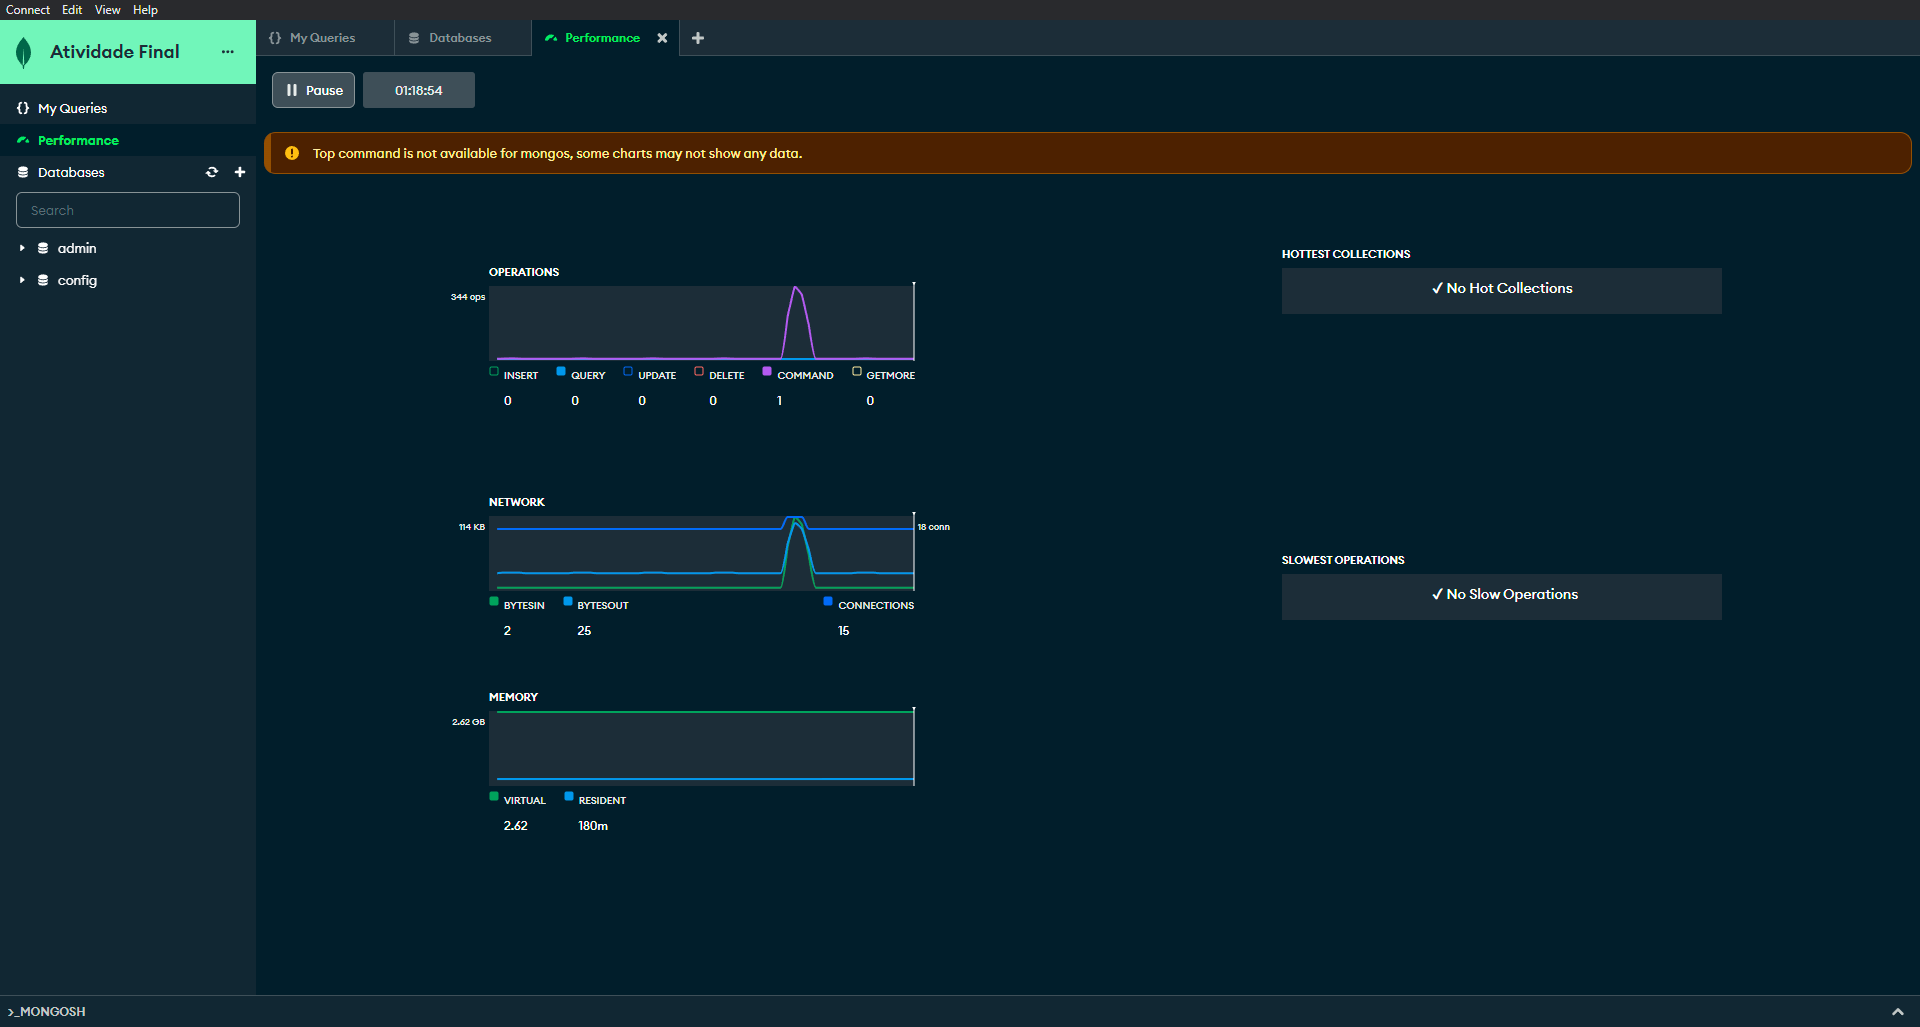
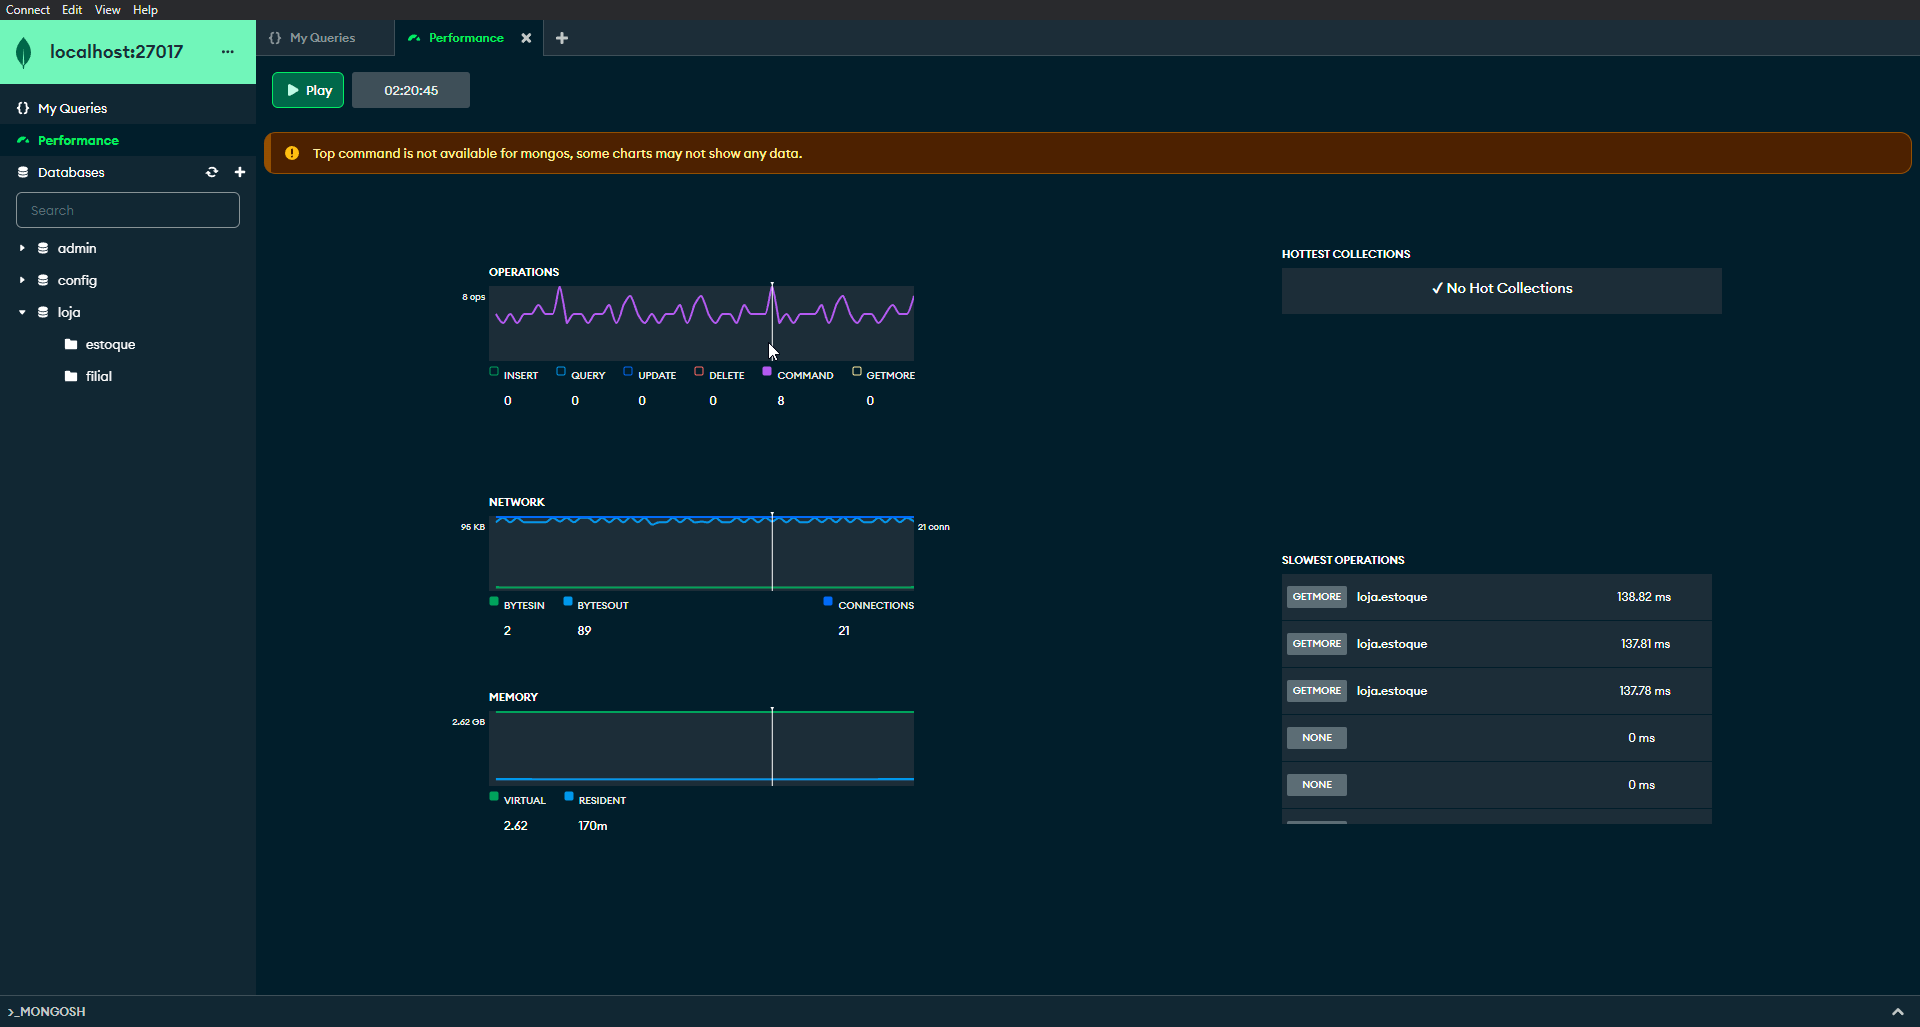
README.md v1.0

diff --git a/README.md b/README.md
@@ -428,6 +428,16 @@ EOF
 
 Aguardamos 30 segundos para os outros containers finalizarem a inicialização e acessamos o router usando `mongosh --host router1:27017`. Cada shard\subshard deve ser adicionado individualmente.
 
+#### Banco
+
+Baseado nos requisitos podemos extrair 2 coleções importantes, filial e estoque. Filial contém os dados de todos os filais da rede de lojas e o estoque contém todos os dados dos produtos.
+Cada produto tem uma ligação para uma única filial.
+
+Para o particionamento de dados cada coleção tem uma estratégia diferente. O banco filial contém uma shard key incremental similar a um id, então foi aplicado estratégia `ranged` antes da primeira injeção de dados. O banco estoque a shard key foi feito através de uma estratégia `hashed` para garantir um particionamento mais igualitário. Ao definir a chave antes da primeira injeção vemos que a performance caia muito sendo que além de inserir o documento ele já fazia o balanceamento, para não perder em performance a chave foi definida depois de inserir os dados. Somente definindo os `shard key` não foi o suficiente para garantir o particionamento, sendo que a quantidade de dados que a máquina local permitia era menor do padrão mínimo do mongo então tinha que definir o `chunksize` também. Somente após definindo esses 2 dados que o mongo começou a fazer o particionamento de dados. As estratégias podem ser vistas nos arquivos seed:
+
+- [Seed Filial](./seedFilial.py)
+- [Seed Estoque](./seedProduto.py)
+
 #### Pre-requisitos
 
 - Docker
@@ -448,9 +458,9 @@ Para executar segue os seguintes passos:
    `pip install -r requirements.txt`
 4. Aguarde 30 segundos
 5. Execute o script para criar e alimentar os bancos
-    - Windows: `py .\seed.py`
-    - Outros: `python3 ./seed.py`
-6. Acesse o cluster usando o link
+    - Windows: `py .\seedFilial.py` e `py .\seedProduto.py`
+    - Outros: `python3 ./seedFilial.py` e `python3 ./seedProduto.py`
+6. Abre o MongoDb Compass e acesse o cluster usando o link
    `mongodb://localhost:27017/`
 
 ### Testes
@@ -471,12 +481,20 @@ Injeção de 5 batches de 100k de produto resultou nesses gráficos, foi feito u
 
 ![Teste Consulta de Produtos](./imagens/testFindProdutos.png 'Teste Consulta de Produtos')
 
+Foi feito 1k consultas na coleção de produtos, olhando diferentes valores e filiais.
+
 #### Teste Update de Inventario
 
 ![Teste Update de Inventario](./imagens/testUpdateProduto.png 'Teste Update de Inventario')
+
+Foi atualizado 1k produtos, adicionando e removendo uma quantidade do estoque de cada.
 
 #### Teste Add Novos Filiais
 
 ![Teste Add Novos Filiais](./imagens/testAddFilial.png 'Teste Add Novos Filiais')
 
+Foi adicionado 1k de novos filiais.
+
 ### Recommendações Finais
+
+Um caso extremamente interessante para um trabalho, mesmo sendo um POC ainda requer muita otimização. Para isso precisa de mais estudo de como melhorar a particionamento de dados e otimização dos recursos.
